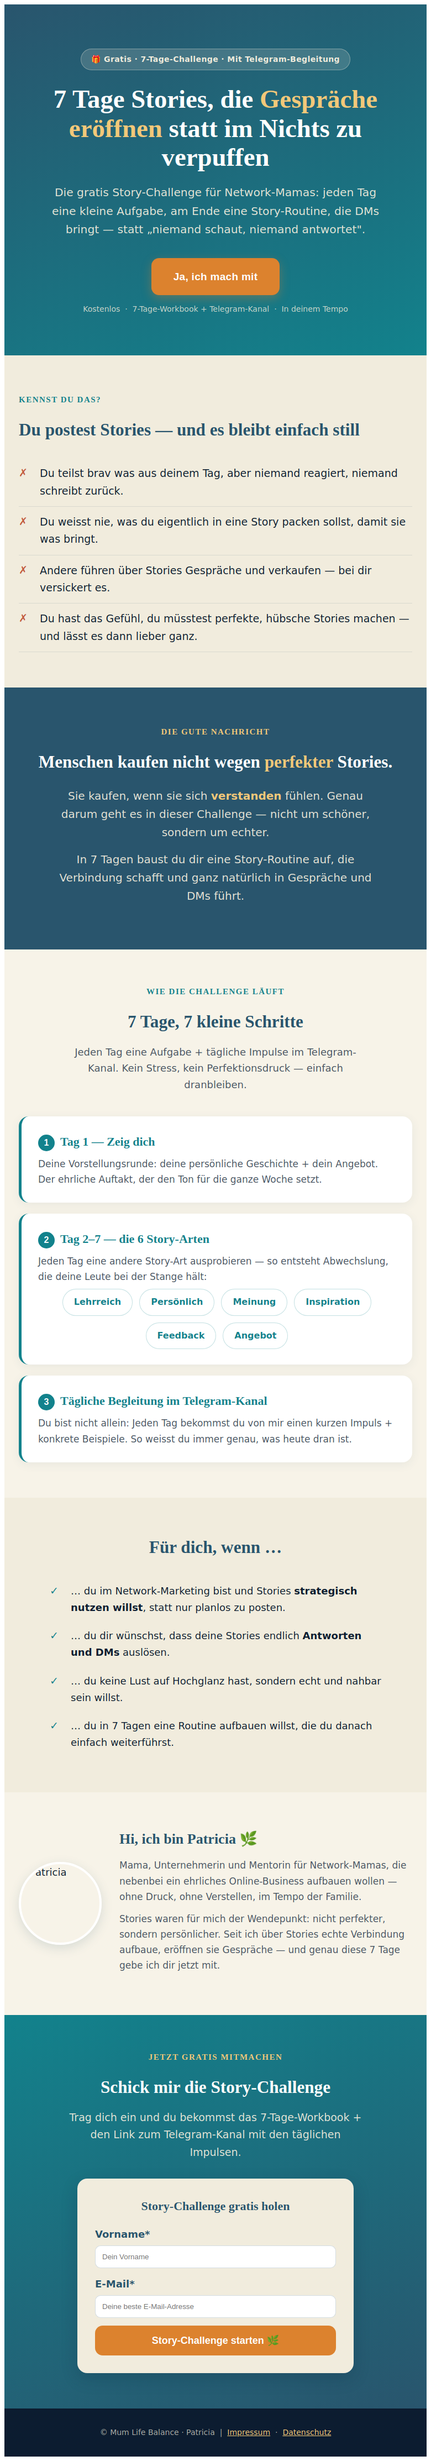
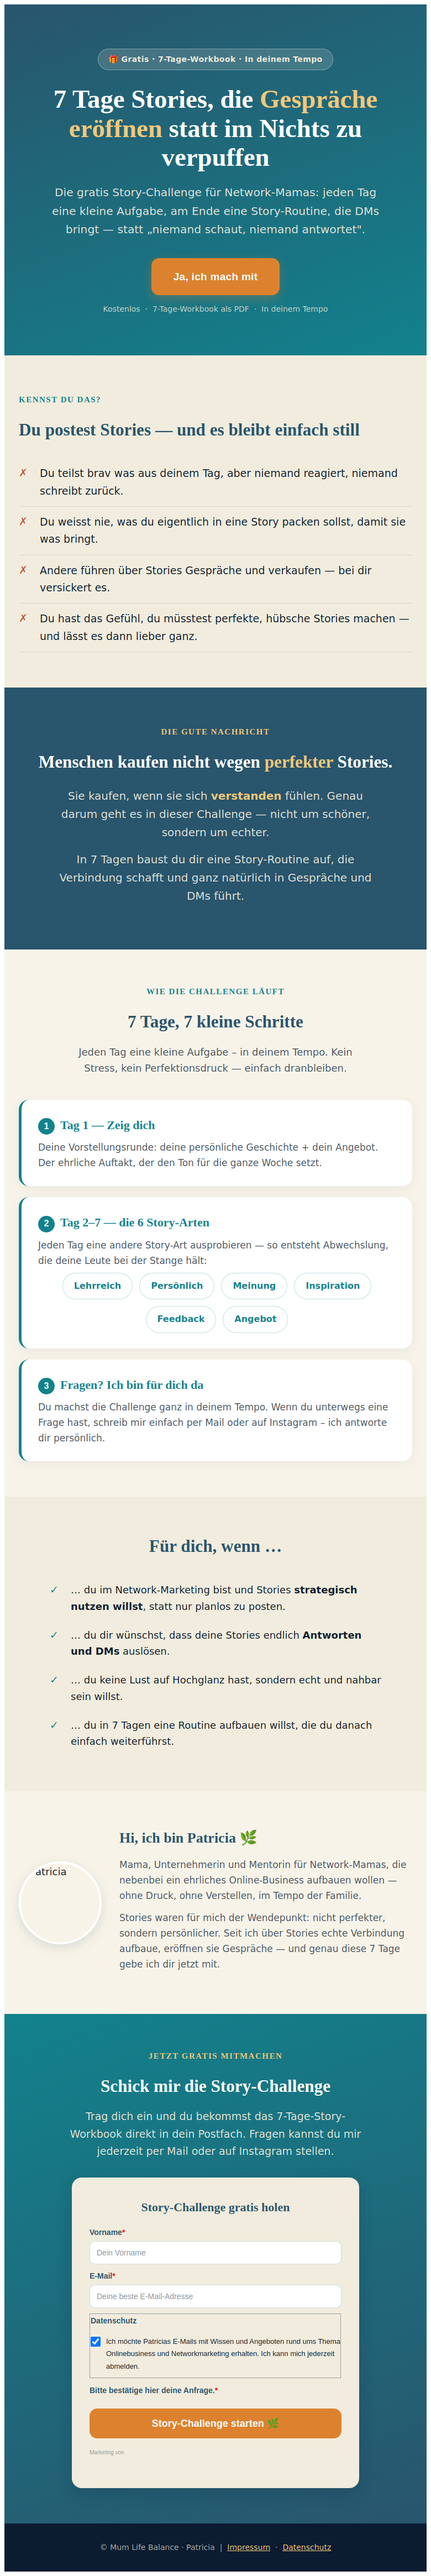
Story-Challenge-Seite: Telegram/Begleitung entfernt (evergreen = nur PDF, Fragen per Mail/IG)
https://claude.ai/code/session_01S6q6n3ALuiBtnrG9B5yQJN

Changed region(s): [[0.0, 0.0, 1.0, 0.9677]]

diff --git a/outputs/funnels/story-challenge/landing/index.html b/outputs/funnels/story-challenge/landing/index.html
@@ -93,11 +93,11 @@
   <!-- HERO -->
   <header class="slg-hero">
     <div class="slg-inner">
-      <span class="slg-badge">🎁 Gratis · 7-Tage-Challenge · Mit Telegram-Begleitung</span>
+      <span class="slg-badge">🎁 Gratis · 7-Tage-Workbook · In deinem Tempo</span>
       <h1>7 Tage Stories, die <em>Gespräche eröffnen</em> statt im Nichts zu verpuffen</h1>
       <p class="sub">Die gratis Story-Challenge für Network-Mamas: jeden Tag eine kleine Aufgabe, am Ende eine Story-Routine, die DMs bringt — statt „niemand schaut, niemand antwortet".</p>
       <a href="#anmelden" class="slg-cta">Ja, ich mach mit</a>
-      <span class="slg-cta-note">Kostenlos &nbsp;·&nbsp; 7-Tage-Workbook + Telegram-Kanal &nbsp;·&nbsp; In deinem Tempo</span>
+      <span class="slg-cta-note">Kostenlos &nbsp;·&nbsp; 7-Tage-Workbook als PDF &nbsp;·&nbsp; In deinem Tempo</span>
     </div>
   </header>
 
@@ -130,7 +130,7 @@
     <div class="slg-inner">
       <span class="slg-kicker" style="display:block;text-align:center;">Wie die Challenge läuft</span>
       <h2>7 Tage, 7 kleine Schritte</h2>
-      <p class="lead">Jeden Tag eine Aufgabe + tägliche Impulse im Telegram-Kanal. Kein Stress, kein Perfektionsdruck — einfach dranbleiben.</p>
+      <p class="lead">Jeden Tag eine kleine Aufgabe – in deinem Tempo. Kein Stress, kein Perfektionsdruck — einfach dranbleiben.</p>
       <div class="slg-cards">
         <div class="slg-card">
           <h3><span class="num">1</span>Tag 1 — Zeig dich</h3>
@@ -149,8 +149,8 @@
           </div>
         </div>
         <div class="slg-card">
-          <h3><span class="num">3</span>Tägliche Begleitung im Telegram-Kanal</h3>
-          <p>Du bist nicht allein: Jeden Tag bekommst du von mir einen kurzen Impuls + konkrete Beispiele. So weisst du immer genau, was heute dran ist.</p>
+          <h3><span class="num">3</span>Fragen? Ich bin für dich da</h3>
+          <p>Du machst die Challenge ganz in deinem Tempo. Wenn du unterwegs eine Frage hast, schreib mir einfach per Mail oder auf Instagram – ich antworte dir persönlich.</p>
         </div>
       </div>
     </div>

diff --git a/outputs/funnels/story-challenge/landing/wp-custom-html-block.html b/outputs/funnels/story-challenge/landing/wp-custom-html-block.html
@@ -87,11 +87,11 @@
   <!-- HERO -->
   <header class="slg-hero">
     <div class="slg-inner">
-      <span class="slg-badge">🎁 Gratis · 7-Tage-Challenge · Mit Telegram-Begleitung</span>
+      <span class="slg-badge">🎁 Gratis · 7-Tage-Workbook · In deinem Tempo</span>
       <h1>7 Tage Stories, die <em>Gespräche eröffnen</em> statt im Nichts zu verpuffen</h1>
       <p class="sub">Die gratis Story-Challenge für Network-Mamas: jeden Tag eine kleine Aufgabe, am Ende eine Story-Routine, die DMs bringt — statt „niemand schaut, niemand antwortet".</p>
       <a href="#anmelden" class="slg-cta">Ja, ich mach mit</a>
-      <span class="slg-cta-note">Kostenlos &nbsp;·&nbsp; 7-Tage-Workbook + Telegram-Kanal &nbsp;·&nbsp; In deinem Tempo</span>
+      <span class="slg-cta-note">Kostenlos &nbsp;·&nbsp; 7-Tage-Workbook als PDF &nbsp;·&nbsp; In deinem Tempo</span>
     </div>
   </header>
 
@@ -124,7 +124,7 @@
     <div class="slg-inner">
       <span class="slg-kicker" style="display:block;text-align:center;">Wie die Challenge läuft</span>
       <h2>7 Tage, 7 kleine Schritte</h2>
-      <p class="lead">Jeden Tag eine Aufgabe + tägliche Impulse im Telegram-Kanal. Kein Stress, kein Perfektionsdruck — einfach dranbleiben.</p>
+      <p class="lead">Jeden Tag eine kleine Aufgabe – in deinem Tempo. Kein Stress, kein Perfektionsdruck — einfach dranbleiben.</p>
       <div class="slg-cards">
         <div class="slg-card">
           <h3><span class="num">1</span>Tag 1 — Zeig dich</h3>
@@ -143,8 +143,8 @@
           </div>
         </div>
         <div class="slg-card">
-          <h3><span class="num">3</span>Tägliche Begleitung im Telegram-Kanal</h3>
-          <p>Du bist nicht allein: Jeden Tag bekommst du von mir einen kurzen Impuls + konkrete Beispiele. So weisst du immer genau, was heute dran ist.</p>
+          <h3><span class="num">3</span>Fragen? Ich bin für dich da</h3>
+          <p>Du machst die Challenge ganz in deinem Tempo. Wenn du unterwegs eine Frage hast, schreib mir einfach per Mail oder auf Instagram – ich antworte dir persönlich.</p>
         </div>
       </div>
     </div>
